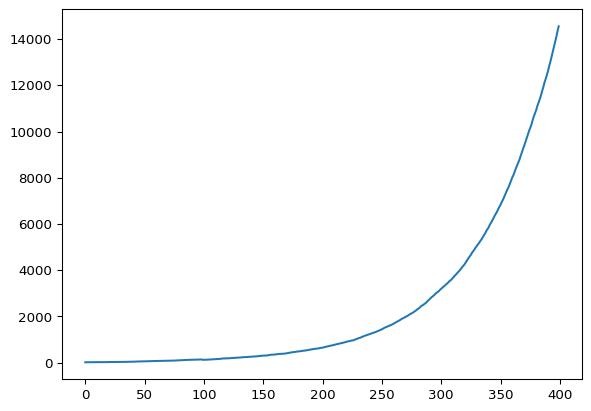
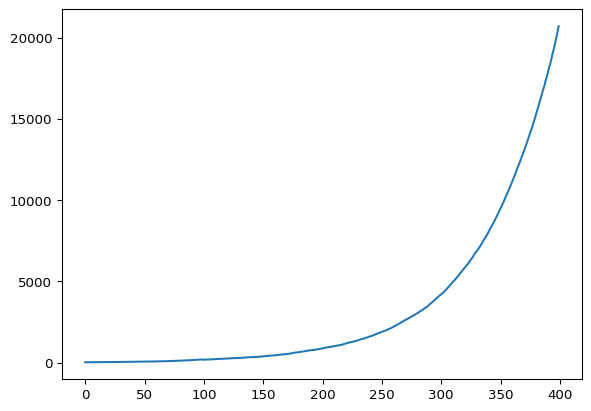
article edit

diff --git a/docs/Journal.html b/docs/Journal.html
@@ -166,7 +166,7 @@ P = P_0 e^{kt}
 <section id="exponential-growth-sim." class="level3">
 <h3 class="anchored" data-anchor-id="exponential-growth-sim.">Exponential Growth Sim.</h3>
 <p>Before making the simulation we must set certain constants and useful variables.</p>
-<div id="89e772e6" class="cell" data-execution_count="2">
+<div id="8dd22682" class="cell" data-execution_count="2">
 <div class="sourceCode cell-code" id="cb1"><pre class="sourceCode python code-with-copy"><code class="sourceCode python"><span id="cb1-1"><a href="#cb1-1" aria-hidden="true" tabindex="-1"></a>Q <span class="op">=</span> <span class="fl">0.02</span></span>
 <span id="cb1-2"><a href="#cb1-2" aria-hidden="true" tabindex="-1"></a></span>
 <span id="cb1-3"><a href="#cb1-3" aria-hidden="true" tabindex="-1"></a>LS <span class="op">=</span> <span class="dv">100</span></span>
@@ -179,7 +179,7 @@ P = P_0 e^{kt}
 </div>
 <p>First the previously mentioned reproduction probability <code>Q</code>, <code>LS</code> is the lifespan of individuals, <code>P</code> is a list of all individuals each represented by their time to live, the population size is logged in the list <code>PLog</code>, and <code>T</code> is the number of iterations.</p>
 <p>Afterwards, we write the simulation’s loop, inside which there’s a variable <code>NewIndividuals</code> to count the number of individuals “born” in the next iteration, and a list <code>deaths</code> to contain the indices (in <code>P</code>) of the specific individuals that should “die” after this iteration.</p>
-<div id="35dc92e3" class="cell" data-execution_count="3">
+<div id="458f2723" class="cell" data-execution_count="3">
 <div class="sourceCode cell-code" id="cb2"><pre class="sourceCode python code-with-copy"><code class="sourceCode python"><span id="cb2-1"><a href="#cb2-1" aria-hidden="true" tabindex="-1"></a><span class="cf">for</span> DeltaT <span class="kw">in</span> <span class="bu">range</span>(T):</span>
 <span id="cb2-2"><a href="#cb2-2" aria-hidden="true" tabindex="-1"></a>    NewIndividuals <span class="op">=</span> <span class="dv">0</span></span>
 <span id="cb2-3"><a href="#cb2-3" aria-hidden="true" tabindex="-1"></a>    deaths <span class="op">=</span> []</span>
@@ -203,7 +203,7 @@ P = P_0 e^{kt}
 </div>
 <p>Then we loop through <code>P</code> and give every individual a probability <code>Q</code> to reproduce, if so, we add 1 to <code>NewIndividuals</code>, every individual’s life decreases and then we check their life has ended to add them to <code>deaths</code>.</p>
 <p>After all the iterations we can graph the population using matplotlib.</p>
-<div id="3365b763" class="cell" data-execution_count="4">
+<div id="e6b55b9d" class="cell" data-execution_count="4">
 <div class="sourceCode cell-code" id="cb3"><pre class="sourceCode python code-with-copy"><code class="sourceCode python"><span id="cb3-1"><a href="#cb3-1" aria-hidden="true" tabindex="-1"></a>W, graph <span class="op">=</span> plt.subplots()</span>
 <span id="cb3-2"><a href="#cb3-2" aria-hidden="true" tabindex="-1"></a>graph.plot(<span class="bu">range</span>(T), PLog)</span>
 <span id="cb3-3"><a href="#cb3-3" aria-hidden="true" tabindex="-1"></a>plt.show()</span></code><button title="Copy to Clipboard" class="code-copy-button"><i class="bi"></i></button></pre></div>
@@ -231,7 +231,7 @@ P = \frac{C}{1 + Ae^{-kt}}
 <section id="logistic-growth-model-sim." class="level3">
 <h3 class="anchored" data-anchor-id="logistic-growth-model-sim.">Logistic Growth Model Sim.</h3>
 <p>The following simulation isn’t very different from the previous one, we’ll only need to introduce the new variable <code>food</code>, and tweak the previously introduced constants to get a nice and possibly realistic graph.</p>
-<div id="110132bb" class="cell" data-execution_count="5">
+<div id="1aa6229d" class="cell" data-execution_count="5">
 <div class="sourceCode cell-code" id="cb4"><pre class="sourceCode python code-with-copy"><code class="sourceCode python"><span id="cb4-1"><a href="#cb4-1" aria-hidden="true" tabindex="-1"></a>Q <span class="op">=</span> <span class="fl">0.008</span></span>
 <span id="cb4-2"><a href="#cb4-2" aria-hidden="true" tabindex="-1"></a></span>
 <span id="cb4-3"><a href="#cb4-3" aria-hidden="true" tabindex="-1"></a>LS <span class="op">=</span> <span class="dv">100</span></span>
@@ -246,7 +246,7 @@ P = \frac{C}{1 + Ae^{-kt}}
 <span id="cb4-12"><a href="#cb4-12" aria-hidden="true" tabindex="-1"></a>T <span class="op">=</span> <span class="dv">2500</span></span></code><button title="Copy to Clipboard" class="code-copy-button"><i class="bi"></i></button></pre></div>
 </div>
 <p>Then in the simulation loop we’ll have to replenish the food every iteration, and make the chance of finding food inversely proportional to scarcity, then extend the lifetime of individuals that can find food.</p>
-<div id="ccf92893" class="cell" data-execution_count="6">
+<div id="1962825d" class="cell" data-execution_count="6">
 <div class="sourceCode cell-code" id="cb5"><pre class="sourceCode python code-with-copy"><code class="sourceCode python"><span id="cb5-1"><a href="#cb5-1" aria-hidden="true" tabindex="-1"></a><span class="cf">for</span> DeltaT <span class="kw">in</span> <span class="bu">range</span>(T):</span>
 <span id="cb5-2"><a href="#cb5-2" aria-hidden="true" tabindex="-1"></a>    food <span class="op">+=</span> random.randint(<span class="dv">0</span>, <span class="dv">20</span>)</span>
 <span id="cb5-3"><a href="#cb5-3" aria-hidden="true" tabindex="-1"></a></span>
@@ -291,7 +291,7 @@ P = \frac{C}{1 + Ae^{-kt}}
 </div>
 </div>
 </div>
-<p>Since the simulation includes some random chances, it produces different numbers nearly every time it runs, so the graphs presented are likely different from the ones I’ve seen.</p>
+<p>Since the simulation includes some random chances, it produces different numbers nearly every time it runs, so the graphs presented will change every time I make edits to the article.</p>
 </section>
 </section>
 </section>
